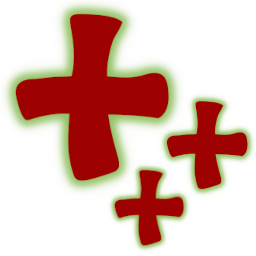
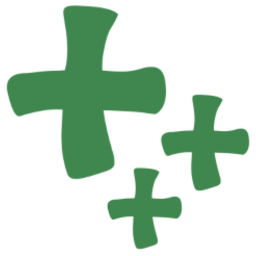
gui: overhaul startup window, add drag n' drop, couple other changes

diff --git a/src/gui/QMareEmptyWindow.cpp b/src/gui/QMareEmptyWindow.cpp
@@ -1,46 +1,45 @@
 #include "QMareEmptyWindow.h"
 
+#include <QDesktopServices>
+#include <QDragEnterEvent>
+#include <QDropEvent>
 #include <QFileDialog>
+#include <QMessageBox>
+#include <QMimeData>
 #include <QPainter>
-#include <QPushButton>
 #include <QScreen>
+#include <QStyle>
+#include <QToolBar>
 
 #include "../common/Config.h"
+#include "Credits.h"
 #include "QMareTextureWindow.h"
 
 QMareEmptyWindow::QMareEmptyWindow() : QMainWindow(nullptr) {
 	this->setWindowTitle(PROJECT_TITLE);
 	this->setWindowIcon(QIcon{":/logo.png"});
-	this->resize(this->screen()->availableGeometry().size() * 0.6);
-	this->setMinimumSize(400, 250);
 
-	this->newTexture = new QPushButton{QIcon{":/button_new.png"}, "", this};
-	this->newTexture->setToolTip(tr("New Texture"));
-	this->newTextures = new QPushButton{QIcon{":/button_new_multi.png"}, "", this};
-	this->newTextures->setToolTip(tr("New Textures"));
-	this->loadTextures = new QPushButton{QIcon{":/button_load.png"}, "", this};
-	this->loadTextures->setToolTip(tr("Load Textures"));
+	this->toolbar = new QToolBar{this};
+	this->toolbar->setToolButtonStyle(Qt::ToolButtonTextUnderIcon);
+	this->toolbar->setMovable(false);
+	this->toolbar->setAutoFillBackground(true);
 
-#ifndef DEBUG // todo: new textures
-	this->newTexture->setDisabled(true);
-	this->newTextures->setDisabled(true);
-#endif
+	auto* toolbarExpanderBegin = new QWidget{this};
+	toolbarExpanderBegin->setSizePolicy(QSizePolicy::Expanding, QSizePolicy::Expanding);
+	this->toolbar->addWidget(toolbarExpanderBegin);
 
-	for (auto* button : {this->newTexture, this->newTextures, this->loadTextures}) {
-		static constexpr auto BUTTON_SIZE = 80;
-		button->setFlat(true);
-		button->setIconSize(QSize{BUTTON_SIZE, BUTTON_SIZE});
-		button->setFixedSize(BUTTON_SIZE, BUTTON_SIZE);
-	}
-
-	connect(this->newTexture, &QPushButton::clicked, this, [this] {
+	this->toolbar->addAction(QIcon{":/button_new.png"}, tr("&Create"), Qt::CTRL | Qt::Key_N, [] {
 		// todo: create new texture from image
-	});
-	connect(this->newTextures, &QPushButton::clicked, this, [this] {
+	})->setDisabled(true);
+
+	this->toolbar->addAction(QIcon{":/button_new_multi.png"}, tr("Create en &Masse"), Qt::CTRL | Qt::SHIFT | Qt::Key_N, [] {
 		// todo: create new textures from folder
-	});
-	connect(this->loadTextures, &QPushButton::clicked, this, [this] {
-		if (const auto files = QFileDialog::getOpenFileNames(this, tr("Load Textures"), {}, QString{"Valve Texture Format (*.vtf *.xtf);;"} + tr("All Files %1").arg("(*)")); !files.empty()) {
+	})->setDisabled(true);
+
+	this->toolbar->addSeparator();
+
+	this->toolbar->addAction(QIcon{":/button_load.png"}, tr("&Load"), Qt::CTRL | Qt::Key_O, [this] {
+		if (const auto files = QFileDialog::getOpenFileNames(this, tr("Load Textures"), {}, QString{"Valve Texture Format (*.vtf *.xtf);;"} + tr("All Files") + " (*)"); !files.empty()) {
 			auto* window = new QMareTextureWindow;
 			for (const auto& file : files) {
 				window->loadTexture(file);
@@ -49,30 +48,60 @@ QMareEmptyWindow::QMareEmptyWindow() : QMainWindow(nullptr) {
 			this->close();
 		}
 	});
+
+	this->toolbar->addSeparator();
+
+	this->toolbar->addAction(QIcon{":/button_kofi.png"}, tr("&Donate"), [] {
+		QDesktopServices::openUrl({"https://ko-fi.com/craftablescience"});
+	});
+
+	this->toolbar->addAction(this->style()->standardIcon(QStyle::SP_DialogHelpButton), tr("&Credits"), Qt::Key_F1, [this] {
+		::showMareTFCredits(this);
+	});
+
+	this->toolbar->addAction(this->style()->standardIcon(QStyle::SP_TitleBarMenuButton), tr("&About Qt"), [this] {
+		QMessageBox::aboutQt(this);
+	});
+
+	auto* toolbarExpanderEnd = new QWidget{this};
+	toolbarExpanderEnd->setSizePolicy(QSizePolicy::Expanding, QSizePolicy::Expanding);
+	this->toolbar->addWidget(toolbarExpanderEnd);
+
+	this->addToolBar(Qt::ToolBarArea::TopToolBarArea, this->toolbar);
+
+	const auto scaledScreenSize = this->screen()->availableGeometry().size() * 0.5f;
+	const auto scaledScreenSizeMinDim = qMax(qMin(scaledScreenSize.width(), scaledScreenSize.height()), 300);
+	this->setFixedSize(scaledScreenSizeMinDim, scaledScreenSizeMinDim + this->toolbar->height());
+
+	this->setAcceptDrops(true);
 }
 
 void QMareEmptyWindow::paintEvent(QPaintEvent*) {
 	QPainter painter{this};
 
-	static const QPixmap backgroundGradientImage{":/background_gradient.png"};
-	painter.drawPixmap(0, 0, this->width(), this->height(), backgroundGradientImage);
-
-	static const QPixmap envSunImage{":/env_sun.png"};
-	static constexpr auto envSunScaleFactor = 0.1;
-	const auto envSunScale = envSunScaleFactor * this->width() > envSunScaleFactor * this->height() ? envSunScaleFactor * this->width() : envSunScaleFactor * this->height();
-	painter.drawPixmap(static_cast<int>(0.75 * this->width() - envSunScaleFactor / 2), static_cast<int>(0.1 * this->height() - envSunScaleFactor / 2), static_cast<int>(envSunScale), static_cast<int>(envSunScale), envSunImage);
-
-	static const QPixmap backgroundLandscapeImage{":/background_landscape.png"};
-	painter.drawPixmap(0, 0, this->width(), this->height(), backgroundLandscapeImage);
-
-	static const QPixmap oliveShadeSleepImage{":/olive_shade_sleep.png"};
-	static constexpr auto oliveShadeScaleFactor = 0.25;
-	const auto oliveShadeScale = oliveShadeScaleFactor * this->width() > oliveShadeScaleFactor * this->height() ? oliveShadeScaleFactor * this->width() : oliveShadeScaleFactor * this->height();
-	painter.drawPixmap(static_cast<int>(0.55 * this->width() - oliveShadeScale / 2), static_cast<int>(0.8 * this->height() - oliveShadeScale), static_cast<int>(oliveShadeScale), static_cast<int>(oliveShadeScale), oliveShadeSleepImage);
+	static const QPixmap SPLASH_IMAGE{":/splash.png"};
+	const QPixmap splashImageScaled = SPLASH_IMAGE.scaled(this->width(), this->height() - this->toolbar->height(), Qt::IgnoreAspectRatio, Qt::SmoothTransformation);
+	painter.drawPixmap(0, this->toolbar->height(), splashImageScaled.width(), splashImageScaled.height(), splashImageScaled);
 }
 
-void QMareEmptyWindow::resizeEvent(QResizeEvent*) {
-	this->newTexture->setGeometry(QRect{static_cast<int>(0.14 * this->width() - static_cast<float>(this->newTexture->width()) / 2), static_cast<int>(0.4 * this->height() - static_cast<float>(this->newTexture->height())), this->newTexture->width(), this->newTexture->height()});
-	this->newTextures->setGeometry(QRect{static_cast<int>(0.24 * this->width() - static_cast<float>(this->newTextures->width()) / 2), static_cast<int>(0.55 * this->height() - static_cast<float>(this->newTextures->height())), this->newTextures->width(), this->newTextures->height()});
-	this->loadTextures->setGeometry(QRect{static_cast<int>(0.12 * this->width() - static_cast<float>(this->loadTextures->width()) / 2), static_cast<int>(0.65 * this->height() - static_cast<float>(this->loadTextures->height())), this->loadTextures->width(), this->loadTextures->height()});
+void QMareEmptyWindow::dragEnterEvent(QDragEnterEvent* event) {
+	if (!event->mimeData()->hasUrls()) {
+		return;
+	}
+	for (const auto& url : event->mimeData()->urls()) {
+		if (!url.isLocalFile() || (!url.fileName().endsWith(".vtf") && !url.fileName().endsWith(".xtf"))) {
+			return;
+		}
+	}
+	event->acceptProposedAction();
+}
+
+void QMareEmptyWindow::dropEvent(QDropEvent* event) {
+	auto* window = new QMareTextureWindow;
+	for (const auto& url : event->mimeData()->urls()) {
+		window->loadTexture(url.toLocalFile());
+	}
+	window->show();
+	event->acceptProposedAction();
+	this->close();
 }

diff --git a/src/gui/QMareTextureWindow.cpp b/src/gui/QMareTextureWindow.cpp
@@ -26,6 +26,7 @@
 #include "../common/Common.h"
 #include "../common/Config.h"
 #include "../common/EnumMappings.h"
+#include "Credits.h"
 #include "QMareTextureWidget.h"
 
 QMareTextureWindow::QMareTextureWindow() : QMainWindow(nullptr) {
@@ -38,27 +39,29 @@ QMareTextureWindow::QMareTextureWindow() : QMainWindow(nullptr) {
 
 	auto* fileMenu = this->menuBar()->addMenu(tr("&File"));
 
-	fileMenu->addAction(QIcon{":/button_new.png"}, tr("&New Texture"), [this] {
+	fileMenu->addAction(QIcon{":/button_new.png"}, tr("&Create"), Qt::CTRL | Qt::Key_N, [] {
 		// todo: create new texture from image
 	})->setDisabled(true);
 
-	fileMenu->addAction(QIcon{":/button_new_multi.png"}, tr("N&ew Textures"), [this] {
+	fileMenu->addAction(QIcon{":/button_new_multi.png"}, tr("Create en &Masse"), Qt::CTRL | Qt::SHIFT | Qt::Key_N, [] {
 		// todo: create new textures from folder
 	})->setDisabled(true);
 
-	fileMenu->addAction(QIcon{":/button_load.png"}, tr("&Load Textures"), [this] {
-		for (const auto& file : QFileDialog::getOpenFileNames(this, tr("Load Textures"), {}, QString{"Valve Texture Format (*.vtf *.xtf);;"} + tr("All Files %1").arg("(*)"))) {
+	fileMenu->addSeparator();
+
+	fileMenu->addAction(QIcon{":/button_load.png"}, tr("&Load"), Qt::CTRL | Qt::Key_O, [this] {
+		for (const auto& file : QFileDialog::getOpenFileNames(this, tr("Load Textures"), {}, QString{"Valve Texture Format (*.vtf *.xtf);;"} + tr("All Files") + " (*)")) {
 			this->loadTexture(file);
 		}
 	});
 
 	fileMenu->addSeparator();
 
-	fileMenu->addAction(this->style()->standardIcon(QStyle::SP_DialogHelpButton), tr("Donate On &Ko-fi..."), [] {
+	fileMenu->addAction(QIcon{":/button_kofi.png"}, tr("&Donate"), [] {
 		QDesktopServices::openUrl({"https://ko-fi.com/craftablescience"});
 	});
 
-	fileMenu->addAction(this->style()->standardIcon(QStyle::SP_DialogCancelButton), tr("&Quit"), [this] {
+	fileMenu->addAction(this->style()->standardIcon(QStyle::SP_DialogCancelButton), tr("&Exit"), Qt::ALT | Qt::Key_F4, [this] {
 		this->close();
 	});
 
@@ -76,27 +79,21 @@ QMareTextureWindow::QMareTextureWindow() : QMainWindow(nullptr) {
 
 	auto* helpMenu = this->menuBar()->addMenu(tr("&Help"));
 
-	helpMenu->addAction(this->style()->standardIcon(QStyle::SP_DialogHelpButton), tr("&About"), [this] {
-		auto* box = new QMessageBox{this};
-		box->setWindowTitle(tr("About"));
-		box->setIconPixmap(QPixmap{":/logo.png"}.scaledToWidth(64));
-		box->setTextFormat(Qt::MarkdownText);
-		box->setText(tr("## %1\nCreated by %2\n\nThis project lives [on GitHub here](%3).").arg(PROJECT_TITLE).arg(PROJECT_ORGANIZATION_NAME).arg(PROJECT_HOMEPAGE_URL));
-		box->setStandardButtons(QMessageBox::Ok);
-		box->exec();
+	helpMenu->addAction(this->style()->standardIcon(QStyle::SP_DialogHelpButton), tr("&Credits"), Qt::Key_F1, [this] {
+		::showMareTFCredits(this);
 	});
 
-	helpMenu->addAction(this->style()->standardIcon(QStyle::SP_TitleBarMenuButton), tr("About &Qt"), [this] {
+	helpMenu->addAction(this->style()->standardIcon(QStyle::SP_TitleBarMenuButton), tr("&About Qt"), [this] {
 		QMessageBox::aboutQt(this);
 	});
 
 	helpMenu->addSeparator();
 
-	helpMenu->addAction(this->style()->standardIcon(QStyle::SP_MessageBoxInformation), tr("Report an &Issue"), [this] {
+	helpMenu->addAction(this->style()->standardIcon(QStyle::SP_MessageBoxInformation), tr("Report an &Issue"), [] {
 		QDesktopServices::openUrl({PROJECT_HOMEPAGE_URL "/issues/new"});
 	});
 
-	helpMenu->addAction(this->style()->standardIcon(QStyle::SP_MessageBoxInformation), tr("Request a &Feature"), [this] {
+	helpMenu->addAction(this->style()->standardIcon(QStyle::SP_MessageBoxInformation), tr("Request a &Feature"), [] {
 		QDesktopServices::openUrl({PROJECT_HOMEPAGE_URL "/issues/new"});
 	});
 

diff --git a/src/gui/Credits.cpp b/src/gui/Credits.cpp
@@ -1,0 +1,28 @@
+#include "Credits.h"
+
+#include <QMessageBox>
+
+#include "../common/Config.h"
+
+void showMareTFCredits(QWidget* parent) {
+	auto* box = new QMessageBox{parent};
+	box->setWindowTitle(QObject::tr("About"));
+	box->setIconPixmap(QPixmap{":/logo.png"}.scaledToWidth(64));
+	box->setTextFormat(Qt::MarkdownText);
+	box->setText(
+		QObject::tr(
+			"## %1\n"
+			"Created by %2. This project lives [on GitHub here](%3).\n\n"
+			"The kirin in the program logo (Olive Shade) was created with %4's character creator.\n\n"
+			"The lovely splash screen art is by %5."
+		).arg(
+			PROJECT_TITLE,
+			PROJECT_ORGANIZATION_NAME,
+			PROJECT_HOMEPAGE_URL,
+			"[pony.town](https://pony.town)",
+			"[@pastacrylic](https://linktr.ee/pastacrylic)"
+		)
+	);
+	box->setStandardButtons(QMessageBox::Ok);
+	box->exec();
+}

diff --git a/src/gui/QMareEmptyWindow.h b/src/gui/QMareEmptyWindow.h
@@ -2,9 +2,10 @@
 
 #include <QMainWindow>
 
+class QDragEnterEvent;
+class QDropEvent;
 class QPaintEvent;
-class QPushButton;
-class QResizeEvent;
+class QToolBar;
 
 class QMareEmptyWindow : public QMainWindow {
 	Q_OBJECT;
@@ -15,9 +16,9 @@ public:
 protected:
 	void paintEvent(QPaintEvent*) override;
 
-	void resizeEvent(QResizeEvent*) override;
+	void dragEnterEvent(QDragEnterEvent* event) override;
 
-	QPushButton* newTexture;
-	QPushButton* newTextures;
-	QPushButton* loadTextures;
+	void dropEvent(QDropEvent* event) override;
+
+	QToolBar* toolbar;
 };

diff --git a/src/gui/Credits.h b/src/gui/Credits.h
@@ -1,0 +1,5 @@
+#pragma once
+
+class QWidget;
+
+void showMareTFCredits(QWidget* parent);

diff --git a/README.md b/README.md
@@ -49,7 +49,21 @@ A utility to create, edit, and display every type of VTF file ever made.
 
 <img src="https://github.com/craftablescience/MareTF/blob/mane/res/olive_shade_wink.png?raw=true" alt="The same olive-skinned and red-haired kirin as from the MareTF logo, winking." />
 
-## Example Usage
+## Credits
+
+- Assets:
+  - The kirin in the program logo (Olive Shade) was created with [pony.town](https://pony.town)'s character creator
+  - The lovely GUI splash screen art is by [@pastacrylic](https://linktr.ee/pastacrylic)
+- CLI Dependencies:
+  - [argparse](https://github.com/p-ranav/argparse)
+  - [efsw](https://github.com/SpartanJ/efsw)
+  - [indicators](https://github.com/p-ranav/indicators)
+  - [sourcepp](https://github.com/craftablescience/sourcepp)
+- GUI Dependencies:
+  - [sourcepp](https://github.com/craftablescience/sourcepp)
+  - [Qt](https://www.qt.io)
+
+## Example CLI Usage
 
 ```shell
 maretf create input.png --version 7.4 --format UNCHANGED --filter KAISER
@@ -77,21 +91,7 @@ maretf info input.vtf
 ```
 - Prints the VTF's metadata to the console.
 
-## Credits
-
-- Assets:
-  - The kirin in the program logo (Olive Shade) was created with [pony.town](https://pony.town)'s character creator
-  - The font used in the GUI is [Celestia Medium Redux](http://www.mattyhex.net/CMR), licensed under public domain
-- CLI Dependencies:
-  - [argparse](https://github.com/p-ranav/argparse)
-  - [efsw](https://github.com/SpartanJ/efsw)
-  - [indicators](https://github.com/p-ranav/indicators)
-  - [sourcepp](https://github.com/craftablescience/sourcepp)
-- GUI Dependencies:
-  - [sourcepp](https://github.com/craftablescience/sourcepp)
-  - [Qt](https://www.qt.io)
-
-## Full Help Text
+## Full CLI Help Text
 
 ```
 Usage: maretf [--help] [--output PATH] [--yes] [--no] [--quiet] [--no-recurse]